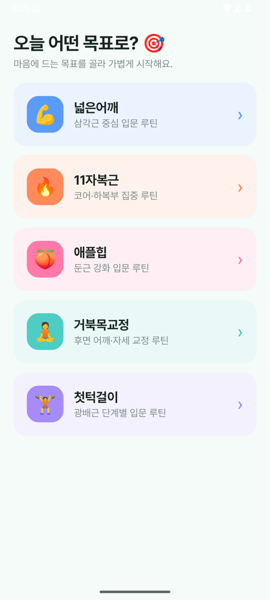
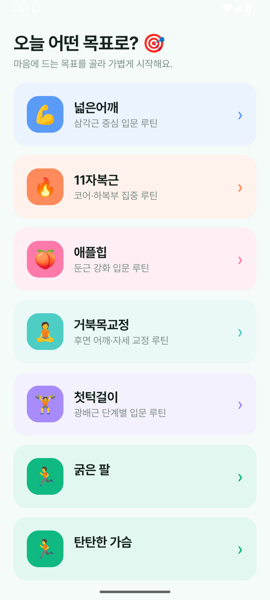
셀프PT 목표 5→10개 확장 반영 (jylab.kr)
- App Preview: 10가지 목표 명시 + 목표 화면 스샷 갱신

diff --git a/index.html b/index.html
@@ -177,7 +177,7 @@ footer a:hover{color:var(--tx)}
 <section id="app"><div class="wrap">
   <div class="sec-tag">App Preview</div>
   <h2>무료 운동 앱으로 시작하세요</h2>
-  <p class="sec-desc">"넓은 어깨" "11자 복근" 같은 목표를 고르면 입문 루틴과 동작 영상을 받습니다. PT 없이도 혼자, 정확하게. 세트를 기록하면 워치·인바디·식단과 함께 카카오톡 코칭으로 이어집니다.</p>
+  <p class="sec-desc">"넓은 어깨" "11자 복근" "달리기 빨라지기"처럼 <b>10가지 목표</b> 중에서 고르면 입문 루틴과 동작 영상을 받습니다. PT 없이도 혼자, 정확하게. 세트를 기록하면 워치·인바디·식단과 함께 카카오톡 코칭으로 이어집니다.</p>
   <div style="display:flex;gap:28px;justify-content:center;flex-wrap:wrap;margin-top:44px">
     <figure style="margin:0;text-align:center">
       <img src="assets/app-goals.png" alt="목표 선택 화면 — 넓은 어깨·11자 복근·애플힙·거북목 교정·첫 턱걸이" loading="lazy" style="width:240px;border-radius:26px;border:1px solid var(--line)">
